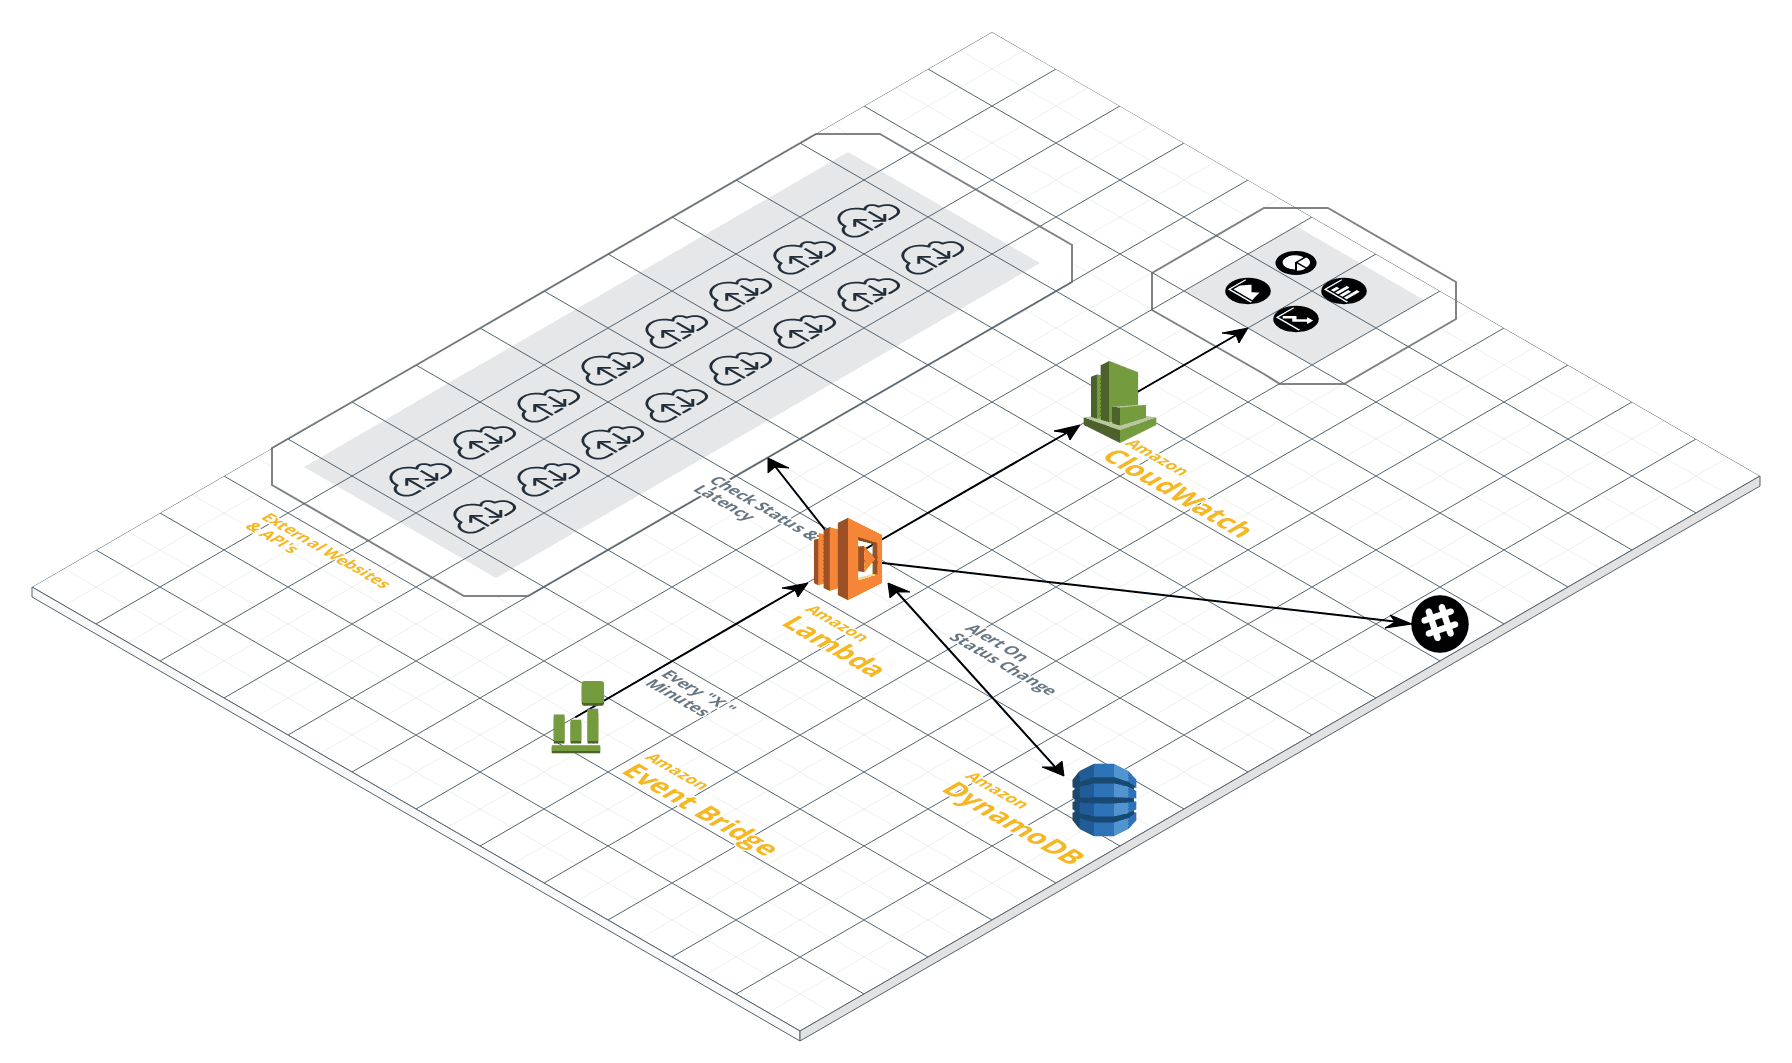
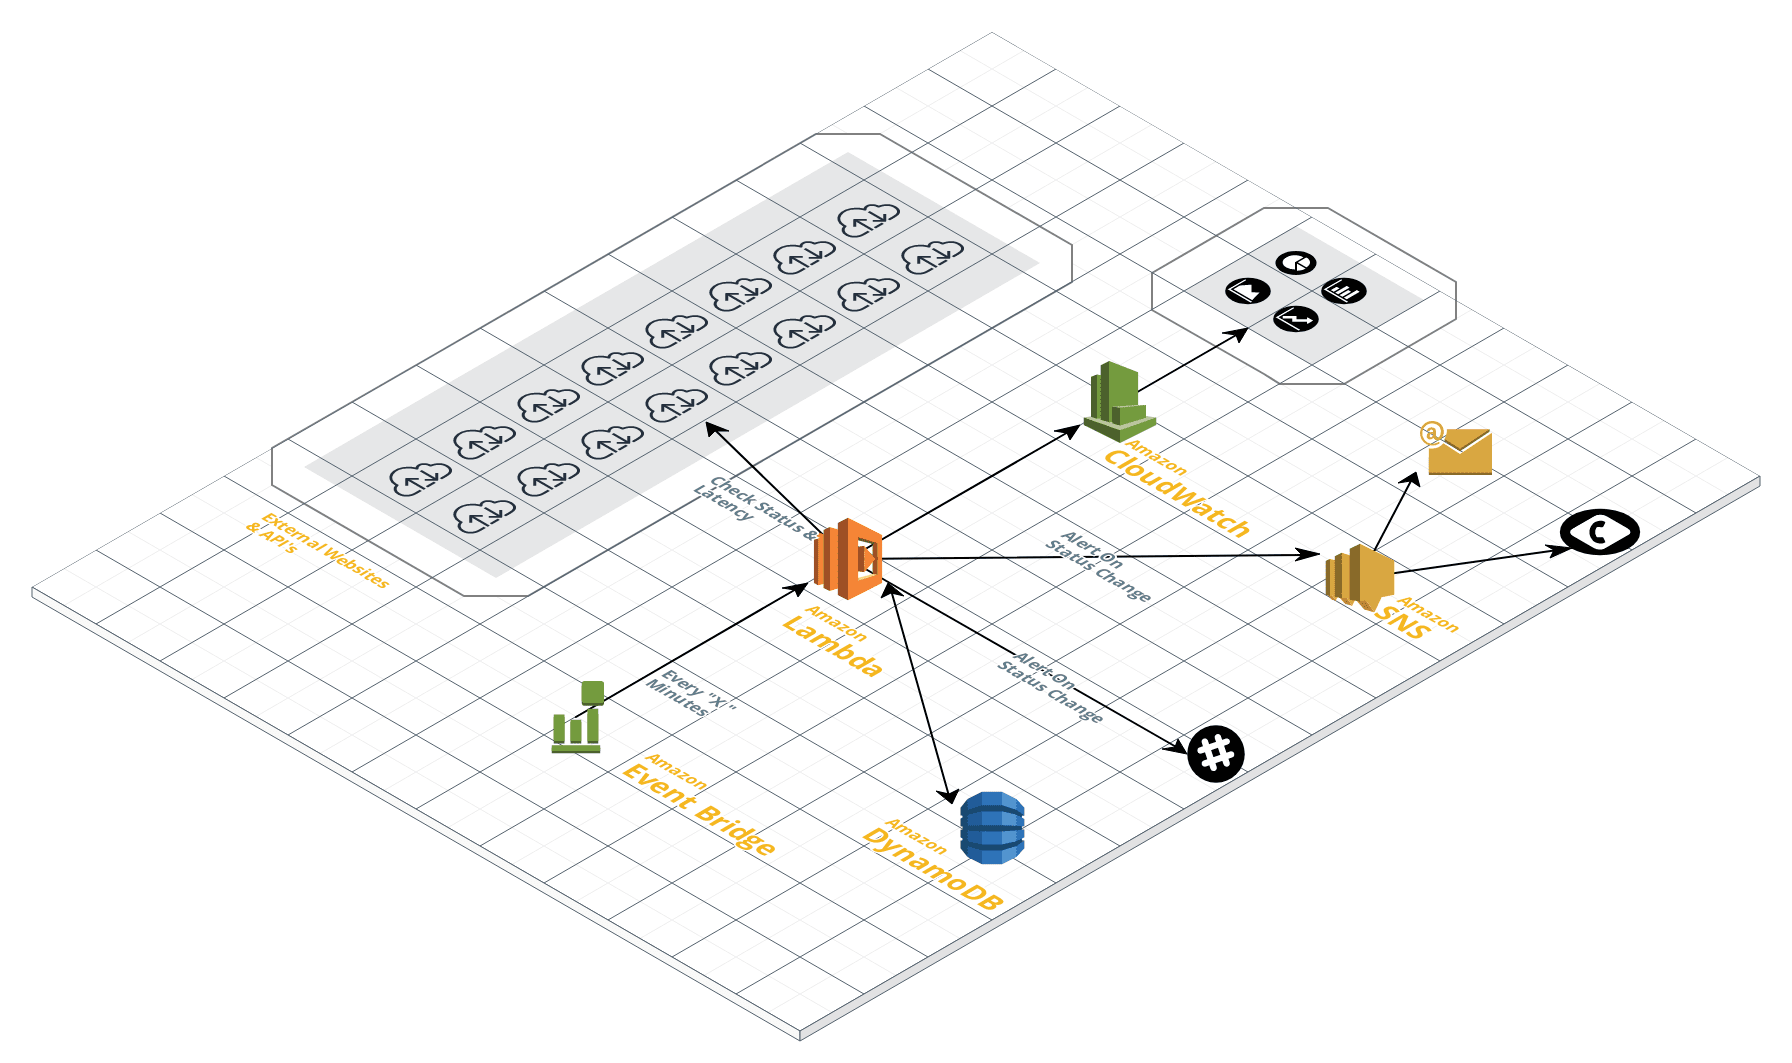
Update readme + new images

diff --git a/README.md b/README.md
@@ -61,12 +61,24 @@ aws configure
 
 ### Update `serverless.yml`
 
+Copy `serverless-example.yml` to `serverless.yml`
+
+```shell script
+cp serverless-example.yml serverless.yml
+```
+
 Configure a slack incoming webhook and update `slackWebhookUrl`
 
 ```yaml
-environment:
-    stage: ${opt:stage}
+environment:    
     slackWebhookUrl: UPDATE_YOUR_SLACK_WEBHOOK HERE # https://slack.com/intl/en-ca/help/articles/115005265063-Incoming-Webhooks-for-Slack
+```
+
+Enter your AWS account Id
+
+```yaml
+environment:    
+    awsAccountId: UPDATE_YOUR_AWS_ACCOUNT_ID_HERE
 ```
 
 Update your website/api urls under `input`
@@ -130,6 +142,11 @@ A quick look at the Resources created by AWS using CloudFormation
 
 <img src="https://raw.githubusercontent.com/akki-io/serverless-monitor/master/images/resources.jpg" alt="serverless-monitor-resources">
 
+## Adding Subscriptions to the SNS Topic
+
+This tool creates a empty topic without any subscriptions attached. You can add your own subscriptions like email, SMS etc.
+
+<img src="https://raw.githubusercontent.com/akki-io/serverless-monitor/master/images/sns-subscription.jpg" alt="serverless-monitor-sns-subscription">
 
 ## Local Tinkering
 
@@ -198,6 +215,13 @@ Logged metrics in Cloudwatch at: serverless-monitor
 
 <img src="https://raw.githubusercontent.com/akki-io/serverless-monitor/master/images/chart.jpg" alt="serverless-monitor-resources">
 
+**Text Alerts**
+
+<img src="https://raw.githubusercontent.com/akki-io/serverless-monitor/master/images/sms.jpg" alt="serverless-monitor-text">
+
+**Email Alerts**
+
+<img src="https://raw.githubusercontent.com/akki-io/serverless-monitor/master/images/email.jpg" alt="serverless-monitor-email">
 
 ## Contributions
 All contributions are welcomed, please create a Pull Request.
@@ -207,7 +231,7 @@ All contributions are welcomed, please create a Pull Request.
 
 ## Todo
 
-- AWS SNS subscription
+- ~~AWS SNS Topic~~ - https://github.com/akki-io/serverless-monitor/pull/1/
 - Maybe Cost Estimation
 - ... suggestions?
 
